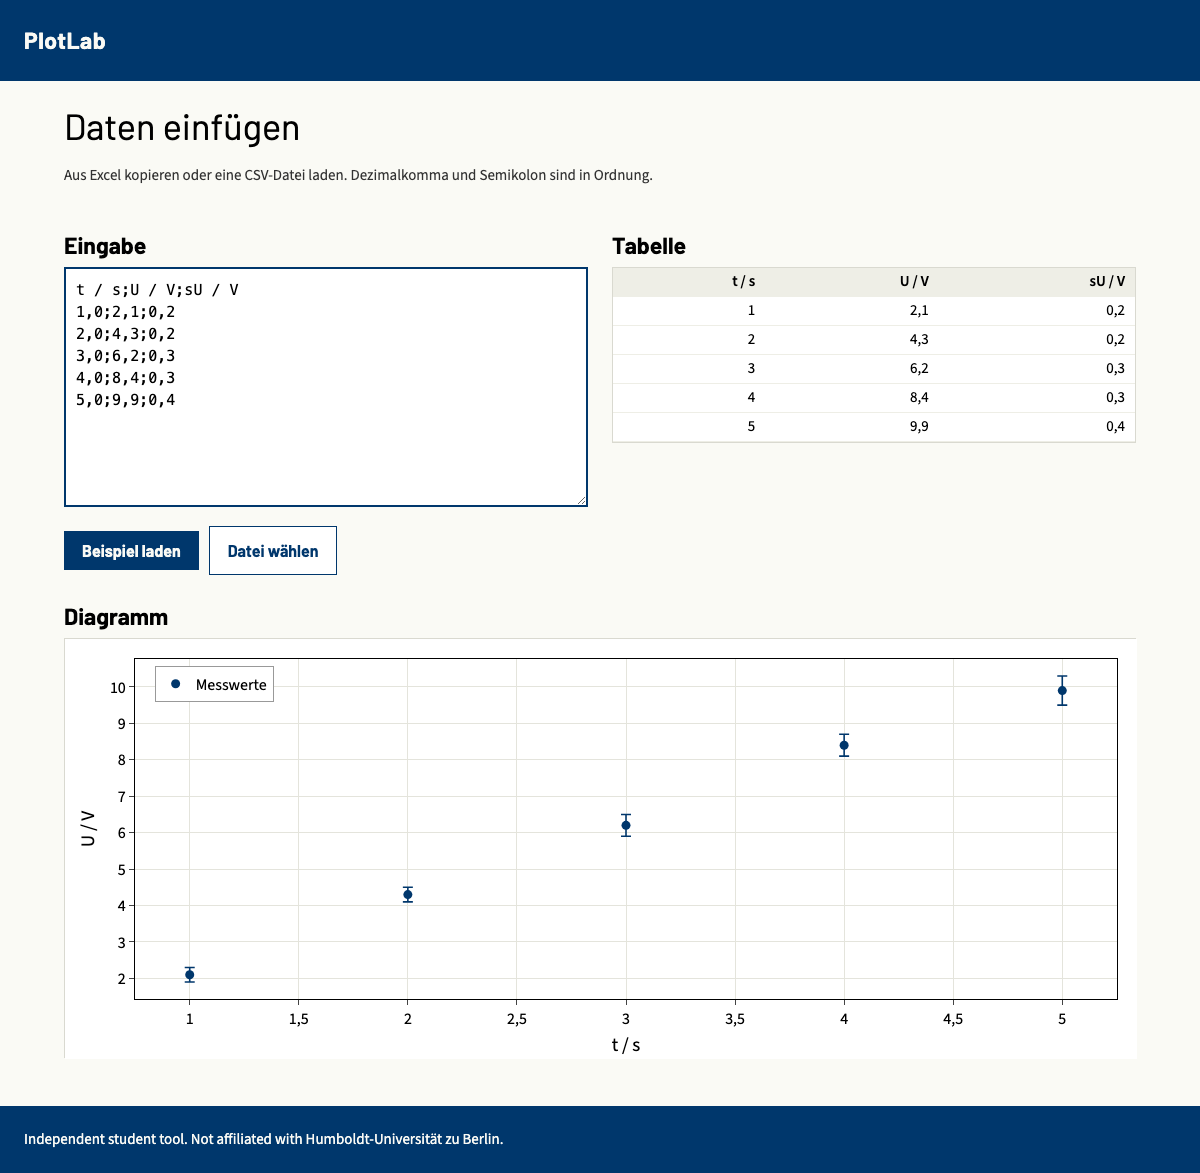
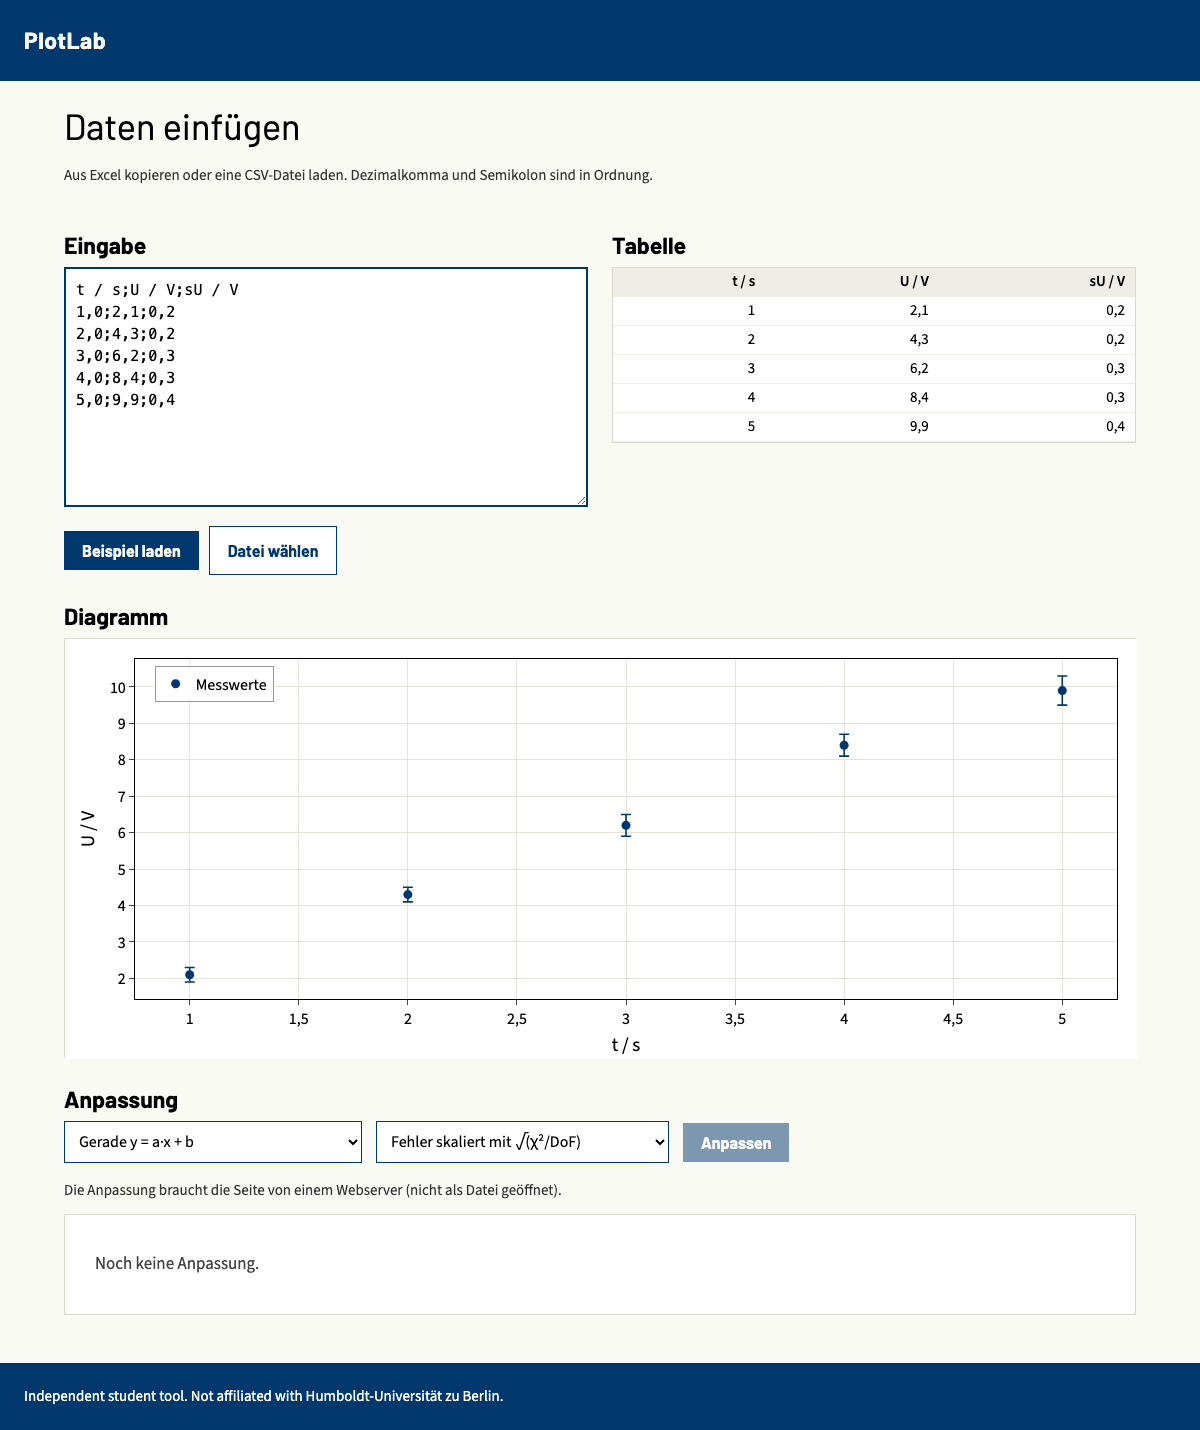
Add test build step 3: SciPy fit in a web worker with scaled and unscaled errors

diff --git a/testbuild/index.html b/testbuild/index.html
@@ -30,6 +30,13 @@
   th,td { text-align:right; padding:3px 10px; border-bottom:1px solid var(--soft); }
   th { background:var(--soft); position:sticky; top:0; font-weight:600; }
   #plot { background:#fff; border:1px solid var(--line); height:420px; }
+  .fitbar { display:flex; gap:14px; flex-wrap:wrap; align-items:center; margin-bottom:10px; }
+  select { font:16px "Source Sans 3", system-ui, sans-serif; padding:8px 10px; border:1px solid var(--blue); border-radius:0; background:#fff; }
+  .btn:disabled { opacity:.5; cursor:default; }
+  #fitres { background:#fff; border:1px solid var(--line); padding:12px 16px; }
+  #fitres.stale { opacity:.55; }
+  #fitres table { width:auto; margin:8px 0; }
+  .res { font:700 20px "Barlow", system-ui, sans-serif; margin:2px 0; }
   .empty { padding:24px 14px; color:#444; }
   .hint { font-size:15px; color:#333; }
   footer { background:var(--blue); color:var(--paper); padding:20px 24px; font-size:15px; }
@@ -58,10 +65,19 @@
   </div>
   <h2>Diagramm</h2>
   <div id="plot"><div class="empty">Noch keine Daten.</div></div>
+  <h2>Anpassung</h2>
+  <div class="fitbar">
+    <select id="model" aria-label="Modell"><option value="line">Gerade y = a·x + b</option><option value="mm">Michaelis-Menten y = Vmax·x / (Km + x)</option></select>
+    <select id="errm" aria-label="Fehlermethode"><option value="scaled">Fehler skaliert mit √(χ²/DoF)</option><option value="unscaled">Fehler unskaliert (aus den sU-Werten)</option></select>
+    <button class="btn" id="fit" disabled>Anpassen</button>
+    <span class="hint" id="fitstate">Rechenmodul (SciPy) wird geladen …</span>
+  </div>
+  <div id="fitres"><div class="empty">Noch keine Anpassung.</div></div>
 </main>
 <footer>Independent student tool. Not affiliated with Humboldt-Universität zu Berlin.</footer>
 <script src="vendor/plotly.min.js"></script>
 <script src="parse.js"></script>
+<script src="round.js"></script>
 <script>
 const $ = id => document.getElementById(id);
 const EXAMPLE = "t / s;U / V;sU / V\n1,0;2,1;0,2\n2,0;4,3;0,2\n3,0;6,2;0,3\n4,0;8,4;0,3\n5,0;9,9;0,4";
@@ -69,6 +85,7 @@ const fmt = new Intl.NumberFormat("de-DE", { maximumFractionDigits: 10 });
 const esc = s => s.replace(/[&<>]/g, c => ({ "&": "&amp;", "<": "&lt;", ">": "&gt;" }[c]));
 
 function render() {
+  markStale();
   const r = parseTable($("in").value), msg = $("msg");
   msg.hidden = !r.error || !$("in").value.trim();
   if (r.error) {
@@ -81,9 +98,11 @@ function render() {
     "</tr></thead><tbody>" + r.rows.map(row => "<tr>" + row.map(v => `<td>${v === null ? "" : fmt.format(v)}</td>`).join("") + "</tr>").join("") + "</tbody></table>";
   drawPlot(r);
 }
-function clearPlot() { Plotly.purge("plot"); $("plot").innerHTML = '<div class="empty">Noch keine Daten.</div>'; }
+function clearPlot() { lastTable = null; Plotly.purge("plot"); $("plot").innerHTML = '<div class="empty">Noch keine Daten.</div>'; }
 // Column 1 = x, column 2 = y, column 3 (optional) = y error. Rows with an empty x or y are skipped.
+let lastFit = null, lastTable = null;
 function drawPlot(r) {
+  lastTable = r;
   if (r.header.length < 2) { clearPlot(); $("plot").innerHTML = '<div class="empty">Für ein Diagramm braucht es mindestens zwei Spalten (x und y).</div>'; return; }
   $("plot").querySelector(".empty")?.remove();
   const rows = r.rows.filter(w => w[0] !== null && w[1] !== null);
@@ -93,9 +112,75 @@ function drawPlot(r) {
   const trace = { x: rows.map(w => w[0]), y: rows.map(w => w[1]), mode: "markers", type: "scatter", name: "Messwerte",
     marker: { color: "#00376C", size: 9, symbol: "circle" } };
   if (hasErr) trace.error_y = { type: "data", array: rows.map(w => w[2] ?? 0), visible: true, color: "#00376C", thickness: 1.6, width: 5 };
-  Plotly.newPlot("plot", [trace], { font: f, separators: ",.", margin: { l: 70, r: 20, t: 20, b: 60 },
+  const traces = [trace];
+  if (lastFit) {
+    const xs = rows.map(w => w[0]), lo = Math.min(...xs), hi = Math.max(...xs);
+    const gx = Array.from({ length: 101 }, (_, i) => lo + (hi - lo) * i / 100);
+    traces.push({ x: gx, y: gx.map(x => MODELS[lastFit.model](x, lastFit.p)), mode: "lines", type: "scatter", name: "Anpassung", line: { color: "#D55E00", width: 2.5 } });
+  }
+  Plotly.newPlot("plot", traces, { font: f, separators: ",.", margin: { l: 70, r: 20, t: 20, b: 60 },
     xaxis: ax(r.header[0]), yaxis: ax(r.header[1]), paper_bgcolor: "#fff", plot_bgcolor: "#fff",
     showlegend: true, legend: { x: 0.02, y: 0.98, bgcolor: "#fff", bordercolor: "#999", borderwidth: 1 } }, { displaylogo: false, responsive: true });
+}
+const MODELS = { line: (x, [a, b]) => a * x + b, mm: (x, [v, k]) => v * x / (k + x) };
+// A module worker cannot start from a file:// page; the table and plot still work then, only the fit is off.
+let worker = null;
+try { worker = new Worker("fit-worker.js", { type: "module" }); } catch { $("fitstate").textContent = "Die Anpassung braucht die Seite von einem Webserver (nicht als Datei geöffnet)."; }
+let fitOut = null;
+if (worker) worker.onmessage = ev => {
+  const m = ev.data;
+  if (m.ready) { $("fit").disabled = false; $("fitstate").textContent = "Bereit."; }
+  else if (m.loadError) $("fitstate").textContent = "Das Rechenmodul konnte nicht geladen werden. Bitte die Seite neu laden.";
+  else { $("fit").disabled = false; m.error ? fitFailed(m.error) : showFit(m.result); }
+};
+function fitFailed(why) {
+  lastFit = null; fitOut = null;
+  $("fitres").classList.remove("stale");
+  $("fitres").innerHTML = `<div class="msg">Die Anpassung ist fehlgeschlagen. Prüfe, ob das Modell zu den Daten passt. (${esc(why)})</div>`;
+  if (lastTable && !lastTable.error) drawPlot(lastTable);
+}
+function units(model) {
+  const u = h => (h.split("/")[1] || "").trim(), ux = u(lastTable.header[0]), uy = u(lastTable.header[1]);
+  const per = ux ? (uy ? uy + "/" + ux : "1/" + ux) : uy;
+  return model === "line" ? [["a", per], ["b", uy]] : [["Vmax", uy], ["Km", ux]];
+}
+function showFit(out) {
+  if ($("model").value === "mm" && (out.p[0] <= 0 || out.p[1] <= 0)) { fitFailed("Vmax und Km müssen größer als 0 sein, die Daten zeigen keine Sättigungskurve."); return; }
+  fitOut = out; lastFit = { model: $("model").value, p: out.p };
+  $("fitres").classList.remove("stale");
+  const weighted = out.err_unscaled !== undefined, un = weighted && $("errm").value === "unscaled";
+  const err = un ? out.err_unscaled : out.err_scaled;
+  const names = units(lastFit.model), f = new Intl.NumberFormat("de-DE", { maximumSignificantDigits: 6 });
+  const lines = names.map(([n, unit], i) => {
+    const r = huRound(out.p[i], err[i]);
+    return r ? `<div class="res">${n} = (${r[0]} ± ${r[1]})${unit ? " " + esc(unit) : ""}</div>` : `<div class="res">${n} = ${f.format(out.p[i])} (Fehler nicht bestimmbar)</div>`;
+  }).join("");
+  const how = !weighted ? "ungewichtet; Fehler aus der Streuung der Messpunkte um die Kurve"
+    : un ? "gewichtet mit sU; Fehler unskaliert (absolute_sigma=True)" : "gewichtet mit sU; Fehler mit √(χ²/DoF) skaliert (absolute_sigma=False)";
+  const rows = names.map(([n], i) => `<tr><td>${n}</td><td>${f.format(out.p[i])}</td><td>${f.format(out.err_scaled[i])}</td>${weighted ? `<td>${f.format(out.err_unscaled[i])}</td>` : ""}</tr>`).join("");
+  $("fitres").innerHTML = lines +
+    `<table><thead><tr><th>Parameter</th><th>Wert</th><th>Fehler skaliert</th>${weighted ? "<th>Fehler unskaliert</th>" : ""}</tr></thead><tbody>${rows}</tbody></table>` +
+    `<div id="how">Methode: ${how}. Freiheitsgrade: ${out.dof}.` + (weighted ? ` χ² = ${f.format(out.chi2)}, χ²/DoF = ${f.format(out.chi2 / out.dof)}.` : ` Summe der Abweichungsquadrate = ${f.format(out.ssr)}.`) + "</div>";
+  drawPlot(lastTable);
+}
+$("errm").onchange = () => { if (fitOut) showFit(fitOut); };
+$("fit").onclick = () => {
+  const r = lastTable;
+  if (!r) { fitFailed("Es sind keine gültigen Daten vorhanden."); return; }
+  const rows = r.rows.filter(w => w[0] !== null && w[1] !== null);
+  const weighted = r.header.length > 2;
+  if (r.header.length < 2 || rows.length <= 2) { fitFailed("Es braucht mindestens drei Messpunkte mit x und y für zwei Parameter."); return; }
+  if (weighted && rows.some(w => !(w[2] > 0))) { fitFailed("Alle Fehlerwerte (dritte Spalte) müssen größer als 0 sein."); return; }
+  $("fit").disabled = true;
+  worker.postMessage({ model: $("model").value, x: rows.map(w => w[0]), y: rows.map(w => w[1]), sy: weighted ? rows.map(w => w[2]) : null });
+};
+// Old results stay visible but greyed out and labelled until the student fits again.
+function markStale() {
+  lastFit = null;
+  if (!fitOut) return;
+  fitOut = null;
+  $("fitres").classList.add("stale");
+  $("fitres").insertAdjacentHTML("afterbegin", '<div class="msg">Die Daten wurden geändert. Dieses Ergebnis ist veraltet. Bitte neu anpassen.</div>');
 }
 $("in").addEventListener("input", render);
 $("example").onclick = () => { $("in").value = EXAMPLE; render(); };

diff --git a/testbuild/fit-worker.js b/testbuild/fit-worker.js
@@ -1,0 +1,40 @@
+// Runs SciPy in a Web Worker so the page stays usable while Python loads and fits.
+import { loadPyodide } from "./vendor/pyodide/pyodide.mjs";
+const ready = (async () => {
+  const py = await loadPyodide({ indexURL: new URL("vendor/pyodide/", self.location).href });
+  await py.loadPackage(["numpy", "scipy"]);
+  await py.runPythonAsync(`
+import json, numpy as np
+from scipy.optimize import curve_fit
+MODELS = {
+  "line": (lambda x, a, b: a * x + b, lambda x, y: [1.0, 0.0]),
+  "mm":   (lambda x, v, k: v * x / (k + x), lambda x, y: [float(np.max(y)), float(np.median(x))]),
+}
+def run(s):
+    d = json.loads(s)
+    x, y = np.array(d["x"]), np.array(d["y"])
+    sy = np.array(d["sy"]) if d["sy"] else None
+    f, p0 = MODELS[d["model"]]
+    p, c = curve_fit(f, x, y, p0=p0(x, y), sigma=sy, absolute_sigma=False, maxfev=5000)
+    out = {"p": p.tolist(), "err_scaled": np.sqrt(np.diag(c)).tolist(), "dof": len(x) - len(p)}
+    r = y - f(x, *p)
+    if sy is None:
+        out["ssr"] = float(np.sum(r ** 2))
+    else:
+        _, c2 = curve_fit(f, x, y, p0=p, sigma=sy, absolute_sigma=True, maxfev=5000)
+        out["err_unscaled"] = np.sqrt(np.diag(c2)).tolist()
+        out["chi2"] = float(np.sum((r / sy) ** 2))
+    return json.dumps(out)
+`);
+  return py;
+})();
+ready.then(() => postMessage({ ready: true }), e => postMessage({ loadError: String(e) }));
+onmessage = async ev => {
+  try {
+    const py = await ready;
+    py.globals.set("job", JSON.stringify(ev.data));
+    postMessage({ result: JSON.parse(await py.runPythonAsync("run(job)")) });
+  } catch (e) {
+    postMessage({ error: String(e.message || e).split("\n").filter(Boolean).pop() });
+  }
+};

diff --git a/testbuild/round.js b/testbuild/round.js
@@ -1,0 +1,9 @@
+// HU rule: round u to 1 significant digit, or 2 if that digit is 1 or 2; round the value to the same decimal place.
+// Returns ["value", "u"] as German strings, or null if u is not a positive finite number.
+function huRound(v, u) {
+  if (!(u > 0) || !isFinite(u) || !isFinite(v)) return null;
+  const e = Math.floor(Math.log10(u)), dig = Math.floor(u / 10 ** e) <= 2 ? 2 : 1;
+  const q = 10 ** (e - (dig - 1)), dec = Math.max(0, -(e - (dig - 1)));
+  const s = n => (Math.round(n / q) * q).toFixed(dec).replace(".", ",");
+  return [s(v), s(u)];
+}

diff --git a/docs/progress.md b/docs/progress.md
@@ -7,7 +7,7 @@ Read by every round of the loop (see docs/loop-prompt.md). Keep the first line e
 
 - [x] 1. One page: paste a CSV (also German format: decimal comma, semicolon) into a box, parse it, show it as a table. Bad input shows a clear message.
 - [x] 2. Plot the table with y error bars.
-- [ ] 3. Fit a curve with SciPy in the browser (Pyodide in a Web Worker). Show parameters, their errors, and say which error method was used.
+- [x] 3. Fit a curve with SciPy in the browser (Pyodide in a Web Worker). Show parameters, their errors, and say which error method was used.
 - [ ] 4. Check the fit against 3 NIST datasets, one each of lower, average and higher difficulty. Record certified values, app values and the difference. Check in an automatic script.
 - [ ] 5. Measure first load time and download size (state device, browser, dataset size), and the time of a repeat visit.
 - [ ] 6. Export the figure as PNG and SVG. Look at both and say if they are fit for a lab report.
@@ -28,3 +28,4 @@ Read by every round of the loop (see docs/loop-prompt.md). Keep the first line e
 - 2026-10-13, step 1: A student can now paste data (German `1,5;2,25`, English `1.5,2`, or Excel tab), choose a CSV file, or load an example, and see it as a table with decimal commas. Bad input (a letter in a number cell, rows with different column counts, header only) shows a plain German message naming the row and column. Tested in a real browser: all checks pass, and no request leaves the machine (fonts Barlow and Source Sans 3 are bundled). Screenshots `evidence/step1-table*.png` judged OK: HU blue header, warm page, square corners, footer present. npm packages: @fontsource/barlow, @fontsource/source-sans-3, playwright-core (dev, for tests). The browser test cannot start inside the Claude sandbox, so it runs outside it.
 
 - 2026-10-14, step 2 (ticked after a manual fix): Added the plot under the table (Plotly, points in HU blue, y error bars from the third column, German decimal commas on the axes, legend "Messwerte", axis labels taken from the column headers; bad input clears the plot with a message). The example data now has headers "t / s", "U / V", "sU / V". Wrote `tests/step2-plot.sh`. The round could not run it inside the sandbox. Run outside it: found a wrong test expectation (Plotly draws one error-bar group per point, not one in total) and a leftover "Noch keine Daten." text under the plot; fixed both and added a check for the second. All 3 tests pass, screenshot `evidence/step2-plot.png` judged OK. `loop.sh` now runs `scripts/check.sh` and `tests/*` outside the sandbox so later rounds can run the browser. npm package: plotly.js-dist-min (copy in `testbuild/vendor/`).
+- 2026-10-14, step 3 (finished by hand after the loop stopped): A student can now pick a straight line or Michaelis-Menten, press "Anpassen" and get the parameters as (value ± u) unit, with the error method named: weighted fits show both the scaled errors (√(χ²/DoF)) and unscaled errors, and χ²/DoF; unweighted fits say so. SciPy runs in the browser (Pyodide 314, NumPy, SciPy, about 31 MB in `testbuild/vendor/pyodide`, not committed; `testbuild/setup.sh` downloads it) inside a Web Worker. Tested in a real browser against hand-calculated closed-form values: slope 2,01 ± 0,06 V/s (scaled; 0,089 unscaled), intercept 0,18 ± 0,17 V, χ²/DoF 0,498; Michaelis-Menten recovers Vmax=2 and Km=0,5 from exact data. Editing data marks results as out of date. Bad input (error bar 0, fewer than 3 points, flat data) shows a clear German message. Fixes: Pyodide needs a module worker; opening the page as a plain file now only turns the fit off instead of breaking the whole page; Km<=0 is refused. Screenshot `evidence/step3-fit.png` judged OK. npm package: pyodide.

diff --git a/CHANGELOG.md b/CHANGELOG.md
@@ -2,6 +2,12 @@
 
 Written in plain language for people who do not read code. Newest entry on top.
 
+## 2026-10-14: Fit a line or a saturation curve
+
+- **What a student can now do:** choose "Gerade" or "Michaelis-Menten" and press "Anpassen". The page shows the parameters as (value ± u) unit, draws the fitted curve over the data, and says which error method it used. With error bars, it shows both the scaled and the unscaled errors and χ²/DoF. If the data changes, the old result is marked as out of date.
+- **Tested:** in a real browser, against numbers worked out by hand. The straight line gave a = (2,01 ± 0,06) V/s. Michaelis-Menten recovered Vmax = 2 and Km = 0,5 from exact data. Error bar 0, too few points and flat data each give a clear message.
+- **Not covered yet:** a check against the official NIST datasets, load time, and export. The first visit downloads about 31 MB for the calculation engine.
+
 ## 2026-10-14: Your data as a plot with error bars
 
 - **What a student can now do:** after pasting data, the page draws it as a plot under the table. The first column is x, the second is y, and an optional third column gives the y error bars. Axis labels come from the column headers, numbers on the axes use decimal commas, and a legend names the data.
